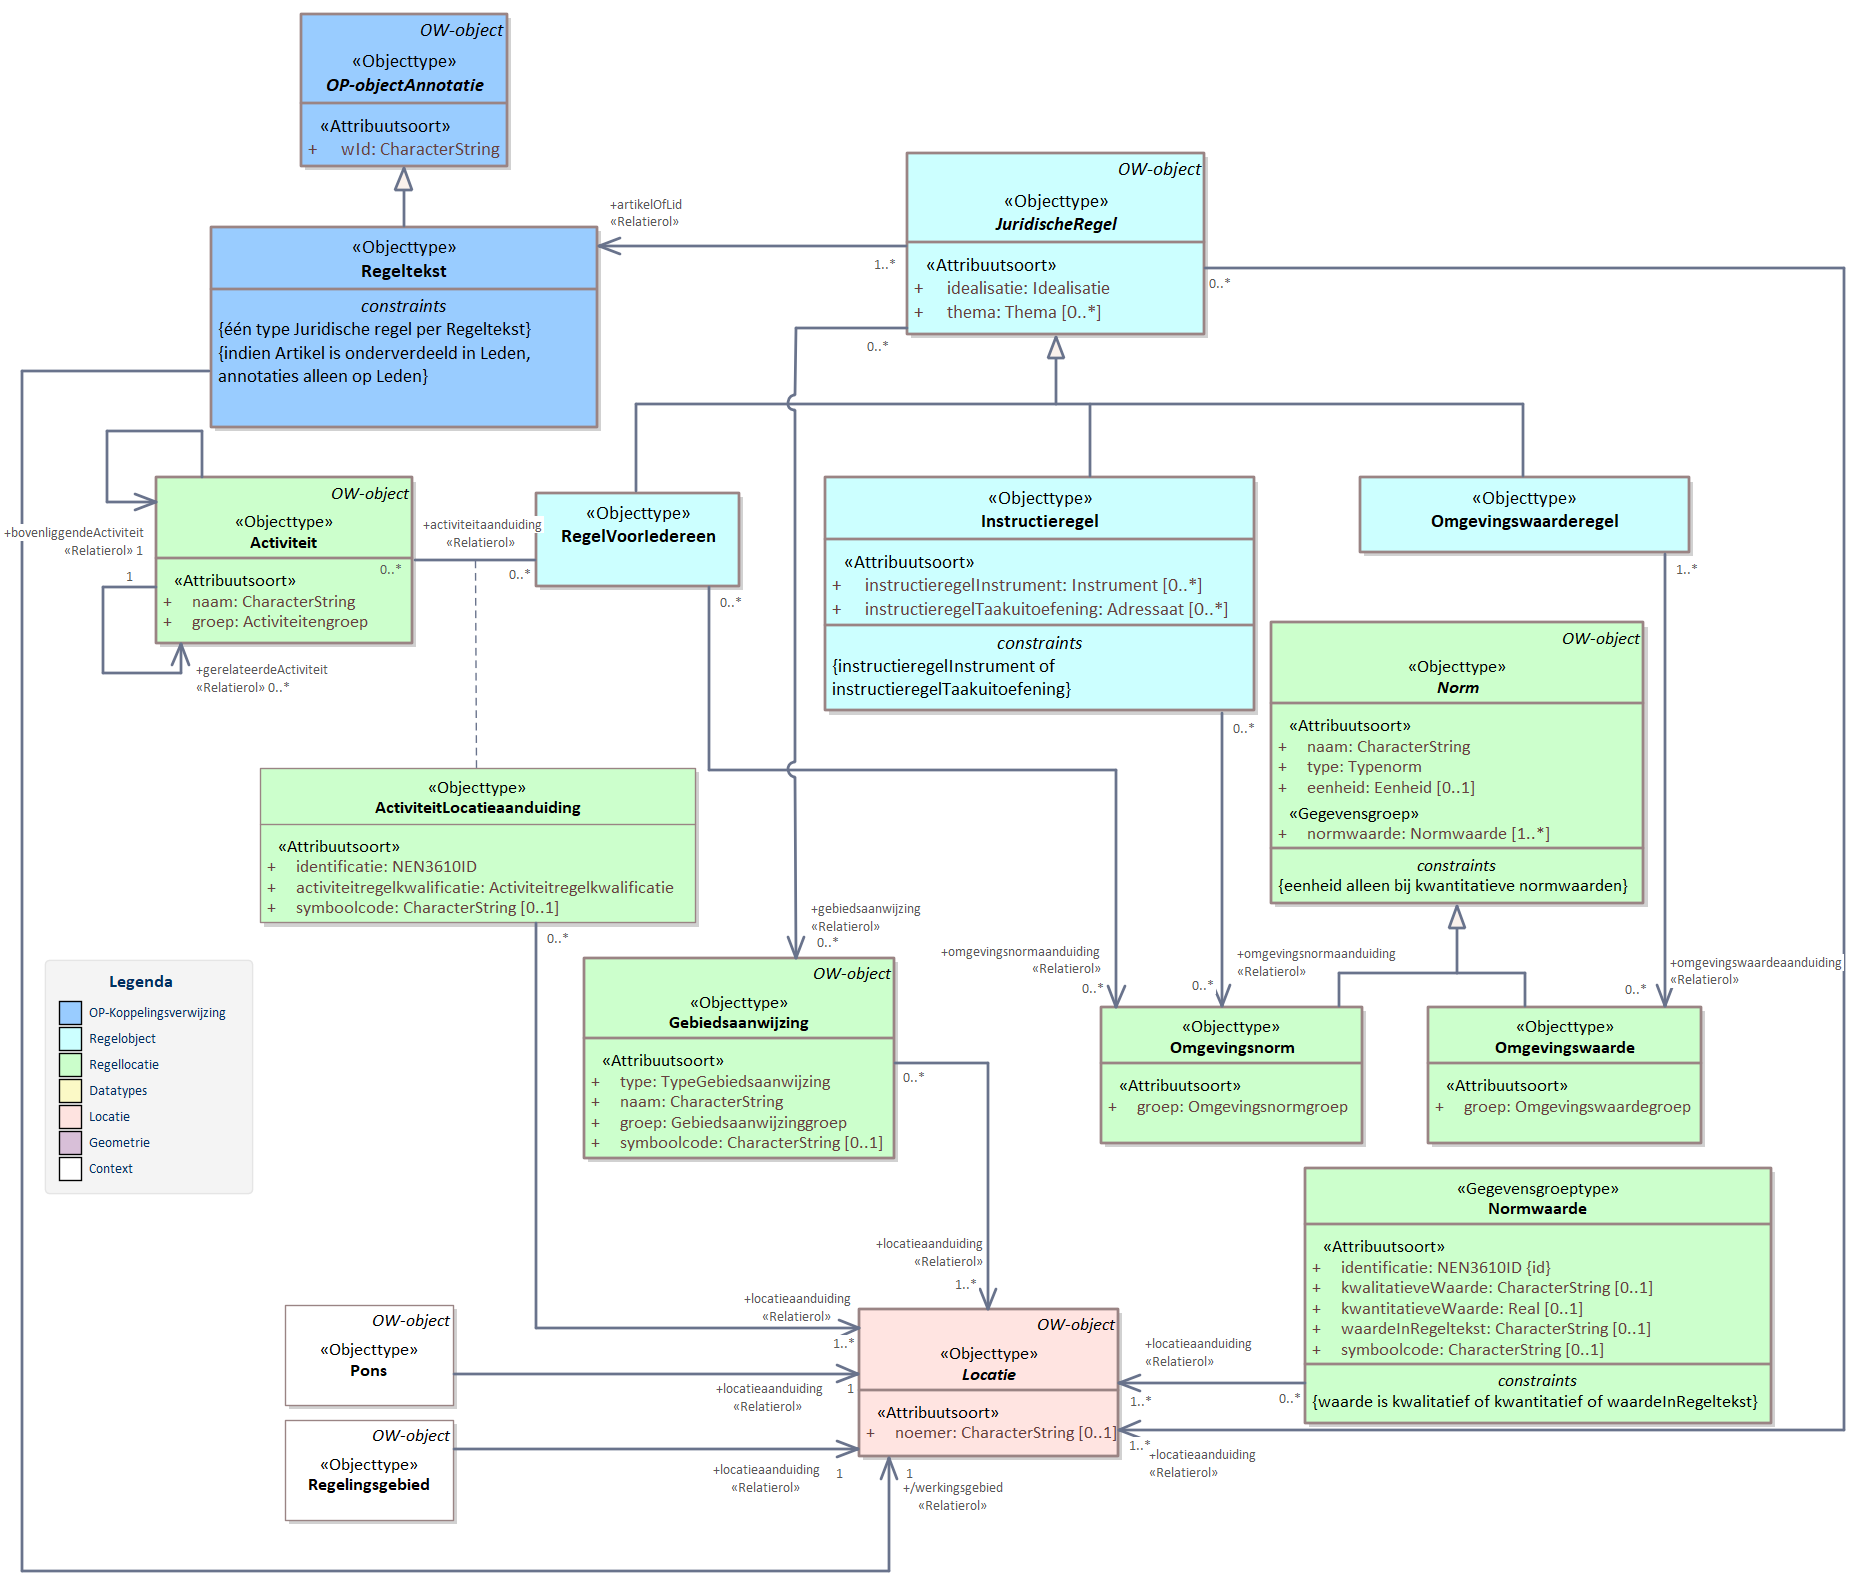
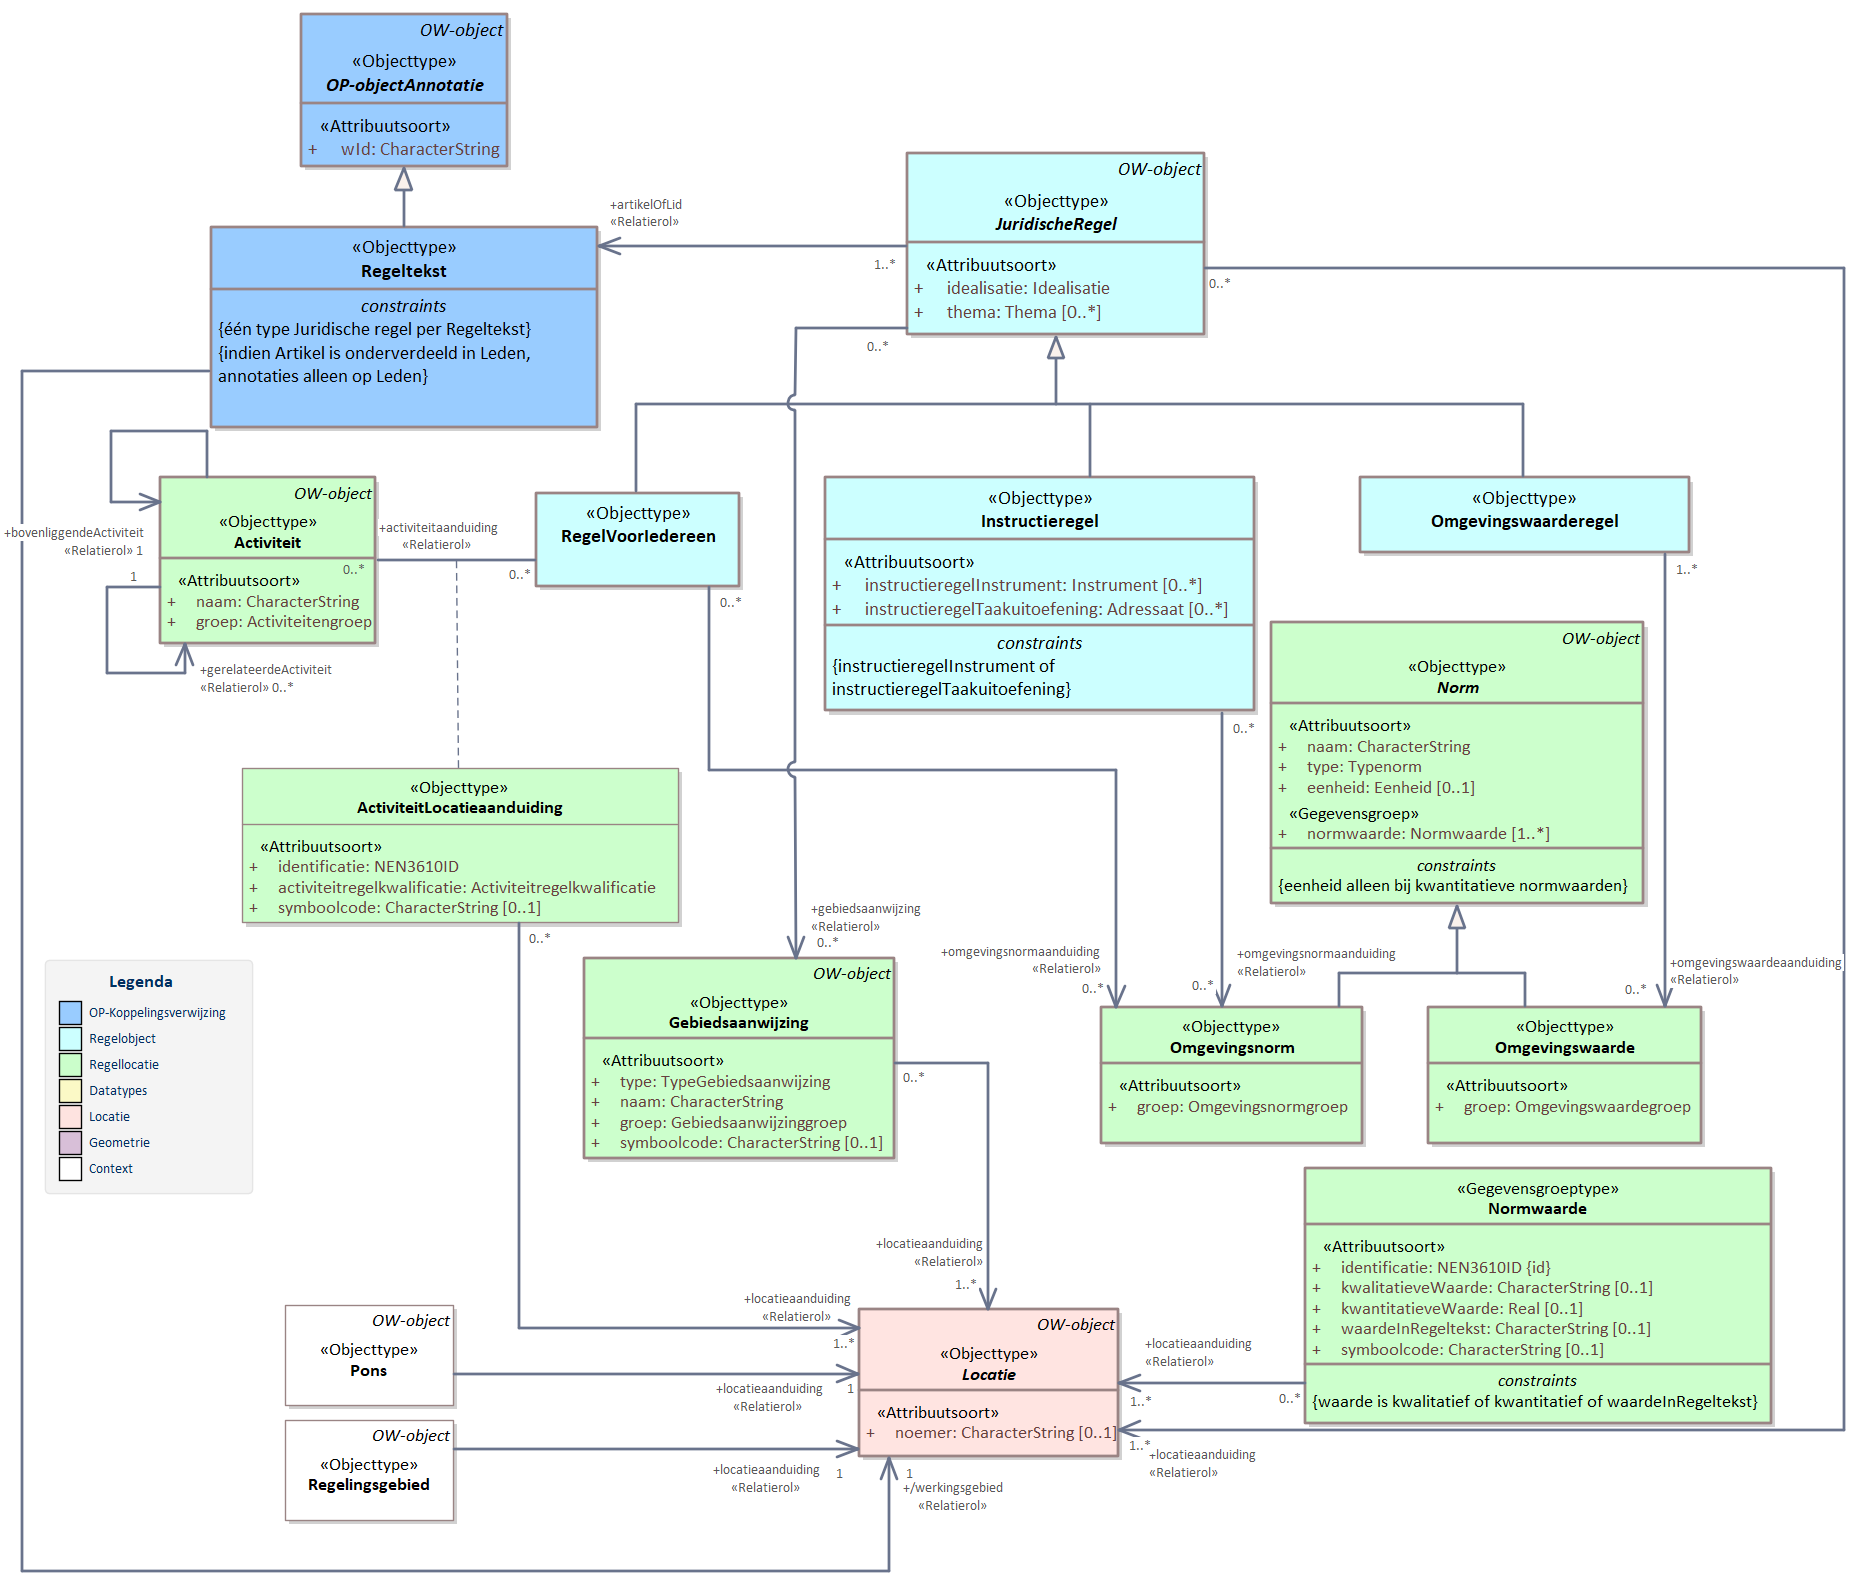
20200601_Oplevering

diff --git a/data/IMOW-cat.respec.html b/data/IMOW-cat.respec.html
@@ -58,7 +58,7 @@
                         
                         <ul>
                            
-                           <li>bij objectType zijn de volgende waardes toegestaan: Activiteit, Divisie, Gebiedsaanwijzing,
+                           <li>bij objectType zijn de volgende waardes toegestaan: Activiteit, Gebiedsaanwijzing,
                               Gebied, Gebiedengroep, Hoofdlijn, Punt, Puntengroep, Lijn, Lijnengroep, Regeltekst,
                               RegelVoorIedereen, Instructieregel, Omgevingswaarderegel, Omgevingsnorm, Omgevingswaarde,
                               Pons, Tekstdeel, Kaart, Kaartlaag, Ambtsgebied of Divisietekst. (LVBB1025)</li>
@@ -462,7 +462,7 @@
                         </td>
                      <td></td>
                      <td>
-                        <a class="external-link" href="https://docs.geostandaarden.nl/mim/vv-st-mim-20200225/#primitive-datatypes">CharacterString</a>
+                        CHARACTERSTRING
                         </td>
                      <td>0 .. 1</td>
                   </tr>
@@ -1133,9 +1133,7 @@
                         </tr>
                         <tr>
                            <th>Formaat</th>
-                           <td>
-                              <a class="external-link" href="https://docs.geostandaarden.nl/mim/vv-st-mim-20200225/#primitive-datatypes">CharacterString</a>
-                              </td>
+                           <td>CHARACTERSTRING</td>
                         </tr>
                         <tr>
                            <th>Indicatie materiële historie</th>
@@ -1931,7 +1929,7 @@
          <h4>   Artikelstructuur - overzicht</h4>
          <div class="imageinfo overview">
             <figure><img src="data/Images/EAID_F30DA025_05E0_4f4b_AAF8_D029BA870995.png" usemap="#imagemap-EAID_F30DA025_05E0_4f4b_AAF8_D029BA870995" alt="Diagram: Een Regeling die volgens de STOP artikelstructuur is gemaakt bevat een geneste structuur die bijvoorbeeld Hoofdstukken, Artikelen, Paragrafen of Subparagrafen kan bevatten. Op het diepste niveau zit de inhoudelijk informatie van de regeling. Die inhoud zit in Artikelen. Een Artikel kan worden opgesplitst in Leden. Als een Artikel Leden heeft zit de Regeltekst in de Leden. In een Artikel zonder Leden zit de Regeltekst in het Artikel zelf. In de artikelstructuur zitten de annotaties op de artikelen of leden. De annotatie is dus op het niveau van een artikel of een lid en niet binnen tekstdelen van een artikel of lid. Het Regeltekst object bevat de verwijzing naar het wId van de STOP tekst die wordt geannoteerd. Vervolgens kunnen er één of meerdere Juridische regels zijn die verbonden zijn aan de regeltekst. Een juridische regel is de in een annotatie opgenomen informatie over een regel met juridische werkingskracht. Een juridische regel heeft drie subtypen (RegelVoorIedereen, Instructieregel, Omgevingswaarderegel) die allen specifieke eigenschappen bevatten o.a. omvat in de objecten Activiteit voor het annoteren van een activiteit, Gebiedsaanwijzing om een benoemd gebied te duiden, Omgevingswaarde om een toegestane of gewenste waarde aan een Locatie toe te kennen en een Omgevingsnorm om een waarde als norm aan een Locatie te koppelen. Vervolgens hebben Normwaarde, Activiteit en Gebiedsaanwijzing een relatie met een Locatie. Het Pons object wordt gebruikt om aan te geven dat een gebied door een Regeling is ingevuld en niet meer door een WRO bestemmingsplan. Dit kan alleen gebruikt worden bij een omgevingsplan."><figcaption>Artikelstructuur</figcaption>
-            </figure><map name="imagemap-EAID_F30DA025_05E0_4f4b_AAF8_D029BA870995"><area shape="rect" alt="OP-objectAnnotatie" coords="301,14,508,167" href="#global_class_OWobject_OPobjectAnnotatie"><area shape="rect" alt="Pons" coords="285,1305,454,1406" href="#global_class_Locatie_Pons"><area shape="rect" alt="Regelingsgebied" coords="285,1420,454,1521" href="#global_class_Locatie_Regelingsgebied"><area shape="rect" alt="ActiviteitLocatieaanduiding" coords="260,768,696,923" href="#global_class_Artikelstructuur_ActiviteitLocatieaanduiding"><area shape="rect" alt="Gebiedsaanwijzing" coords="584,958,895,1159" href="#global_class_Artikelstructuur_Gebiedsaanwijzing"><area shape="rect" alt="Normwaarde" coords="1305,1168,1772,1424" href="#global_class_Artikelstructuur_Normwaarde"><area shape="rect" alt="Norm" coords="1271,622,1644,904" href="#global_class_Artikelstructuur_Norm"><area shape="rect" alt="Omgevingswaarde" coords="1428,1007,1702,1144" href="#global_class_Artikelstructuur_Omgevingswaarde"><area shape="rect" alt="Omgevingsnorm" coords="1101,1007,1363,1144" href="#global_class_Artikelstructuur_Omgevingsnorm"><area shape="rect" alt="Activiteit" coords="156,477,413,644" href="#global_class_Artikelstructuur_Activiteit"><area shape="rect" alt="Locatie" coords="859,1309,1119,1457" href="#global_class_Locatie_Locatie"><area shape="rect" alt="RegelVoorIedereen" coords="536,493,740,587" href="#global_class_Artikelstructuur_RegelVoorIedereen"><area shape="rect" alt="Instructieregel" coords="825,477,1255,711" href="#global_class_Artikelstructuur_Instructieregel"><area shape="rect" alt="Omgevingswaarderegel" coords="1360,477,1690,553" href="#global_class_Artikelstructuur_Omgevingswaarderegel"><area shape="rect" alt="JuridischeRegel" coords="907,153,1205,335" href="#global_class_Artikelstructuur_JuridischeRegel"><area shape="rect" alt="Regeltekst" coords="211,227,598,428" href="#global_class_Artikelstructuur_Regeltekst"></map><p>
+            </figure><map name="imagemap-EAID_F30DA025_05E0_4f4b_AAF8_D029BA870995"><area shape="rect" alt="OP-objectAnnotatie" coords="301,14,508,167" href="#global_class_OWobject_OPobjectAnnotatie"><area shape="rect" alt="Pons" coords="285,1305,454,1406" href="#global_class_Locatie_Pons"><area shape="rect" alt="Regelingsgebied" coords="285,1420,454,1521" href="#global_class_Locatie_Regelingsgebied"><area shape="rect" alt="ActiviteitLocatieaanduiding" coords="242,768,679,923" href="#global_class_Artikelstructuur_ActiviteitLocatieaanduiding"><area shape="rect" alt="Gebiedsaanwijzing" coords="584,958,895,1159" href="#global_class_Artikelstructuur_Gebiedsaanwijzing"><area shape="rect" alt="Normwaarde" coords="1305,1168,1772,1424" href="#global_class_Artikelstructuur_Normwaarde"><area shape="rect" alt="Norm" coords="1271,622,1644,904" href="#global_class_Artikelstructuur_Norm"><area shape="rect" alt="Omgevingswaarde" coords="1428,1007,1702,1144" href="#global_class_Artikelstructuur_Omgevingswaarde"><area shape="rect" alt="Omgevingsnorm" coords="1101,1007,1363,1144" href="#global_class_Artikelstructuur_Omgevingsnorm"><area shape="rect" alt="Activiteit" coords="160,477,376,644" href="#global_class_Artikelstructuur_Activiteit"><area shape="rect" alt="Locatie" coords="859,1309,1119,1457" href="#global_class_Locatie_Locatie"><area shape="rect" alt="RegelVoorIedereen" coords="536,493,740,587" href="#global_class_Artikelstructuur_RegelVoorIedereen"><area shape="rect" alt="Instructieregel" coords="825,477,1255,711" href="#global_class_Artikelstructuur_Instructieregel"><area shape="rect" alt="Omgevingswaarderegel" coords="1360,477,1690,553" href="#global_class_Artikelstructuur_Omgevingswaarderegel"><area shape="rect" alt="JuridischeRegel" coords="907,153,1205,335" href="#global_class_Artikelstructuur_JuridischeRegel"><area shape="rect" alt="Regeltekst" coords="211,227,598,428" href="#global_class_Artikelstructuur_Regeltekst"></map><p>
                
                <p></p>
                
@@ -3489,8 +3487,16 @@
                      <th>Regels</th>
                      <td>
                         
-                        <p>Van de drie kenmerken kwalitatieveWaarde, kwantitatieveWaarde en waardeInRegeltekst
-                           is er precies één ingevuld.</p>
+                        <ul>
+                           
+                           <li>Van de drie kenmerken kwalitatieveWaarde, kwantitatieveWaarde en waardeInRegeltekst
+                              is er precies één ingevuld.</li>
+                           
+                           <li>Alleen normwaarden waarvan per individueel punt van de locatie te bepalen zijn of
+                              ze geldig zijn zijn toegestaan. </li>
+                           
+                           <li>De locaties van een Norm mogen elkaar niet overlappen.</li>
+                           </ul>
                         </td>
                   </tr>
                   <tr>
@@ -3501,6 +3507,11 @@
                         <p>De normwaarde geeft aan wat de specifieke kwantitatieve of kwalitatieve eisen zijn,
                            inclusief de toewijzing ervan aan de specifieke locatie(s) waar de normwaarde voor
                            geldt. </p>
+                        
+                        <p>Toelichting voor de tweede regel: Een voorbeeld van een norm die niet mag is: 'het
+                           bebouwingspercentage op deze locatie is maximaal 80.'. Het probleem met deze norm
+                           is dat ingeval een multigeometrie het niet duidelijk is of de norm per geometrie geldt
+                           of voor het geheel van de geometrieën.</p>
                         
                         </td>
                   </tr>
@@ -5376,7 +5387,7 @@
       <section id="EAID_02D5F2C5_DF92_4981_80BC_F6FECA27C313">
          <h4>   VrijeTekst - overzicht</h4>
          <div class="imageinfo overview">
-            <figure><img src="data/Images/EAID_02D5F2C5_DF92_4981_80BC_F6FECA27C313.png" usemap="#imagemap-EAID_02D5F2C5_DF92_4981_80BC_F6FECA27C313" alt="Diagram: Vrijetekststructuur in STOP gebruikt twee elementtypen: Divisie en Divisietekst. Het hoogste niveau is altijd een Divisie, deze mag onderliggende Divisies bevatten waar uiteindelijk ook een Divisietekst met Inhoud in moet zitten. De Inhoud bevat alleen inhoudelijke tekst. De Divisie wordt gebruikt om de tekst te structureren in bijvoorbeeld verschillende hoofdstukken of paragrafen. Binnen IMOW is Divisietekst een subklasse van OP-objectAnnotatie. Dit betekent dat er vanuit Divisie een verwijzing is naar de wId (identificatie) van de Divisietekst in STOP. In de vrijetekststructuur zijn documenten gestructureerd in Divisie en Divisietekst element waarbij de annotaties alleen aan de Divisietekst hangen . Dit betekent dat de inhoudelijke tekstgegevens worden aangeleverd in het STOP-gedeelte en dat je vanuit OW verwijst naar deze Divisie. Vanuit OW kun je een of meerdere tekstdelen aangeven bij de Divisie. Een tekstdeel kan nog hoofdlijnen, gebiedsaanwijzingen, en/of locaties bevatten. Tevens kan er een Locatie direct gekoppeld zijn aan het tekstdeel of kan de locatie via de gebiedsaanwijzing gekoppeld zijn aan het tekstdeel."><figcaption>VrijeTekst</figcaption>
+            <figure><img src="data/Images/EAID_02D5F2C5_DF92_4981_80BC_F6FECA27C313.png" usemap="#imagemap-EAID_02D5F2C5_DF92_4981_80BC_F6FECA27C313" alt="Diagram: Vrijetekststructuur in STOP gebruikt twee elementtypen: Divisie en Divisietekst. Het hoogste niveau is altijd een Divisie, deze mag onderliggende Divisies bevatten waar uiteindelijk ook een Divisietekst met Inhoud in moet zitten. De Inhoud bevat alleen inhoudelijke tekst. De Divisie wordt gebruikt om de tekst te structureren in bijvoorbeeld verschillende hoofdstukken of paragrafen. In de vrijetekststructuur kan alleen geannoteerd worden op de Divisietekst. Dit doe je door een Tekstdeel te maken die verwijst naar die Divisietekst. Het Tekstdeel bevat dan volgende annotaties: hoofdlijnaanduiding, gebiedsaanwijzing en locatieaanduiding."><figcaption>VrijeTekst</figcaption>
             </figure><map name="imagemap-EAID_02D5F2C5_DF92_4981_80BC_F6FECA27C313"><area shape="rect" alt="OW-object" coords="706,14,1040,170" href="#global_class_OWobject_OWobject"><area shape="rect" alt="OP-objectAnnotatie" coords="353,22,549,161" href="#global_class_OWobject_OPobjectAnnotatie"><area shape="rect" alt="DivisieOfDivisietekst" coords="368,394,534,456" href="#global_class_Vrijetekst_DivisieOfDivisietekst"><area shape="rect" alt="Divisietekst" coords="356,239,547,324" href="#global_class_Vrijetekst_Divisietekst"><area shape="rect" alt="Tekstdeel" coords="312,538,570,692" href="#global_class_Vrijetekst_Tekstdeel"><area shape="rect" alt="Regelingsgebied" coords="867,603,1048,705" href="#global_class_Locatie_Regelingsgebied"><area shape="rect" alt="Hoofdlijn" coords="14,839,271,993" href="#global_class_Vrijetekst_Hoofdlijn"><area shape="rect" alt="Gebiedsaanwijzing" coords="305,839,616,1031" href="#global_class_Artikelstructuur_Gebiedsaanwijzing"><area shape="rect" alt="Locatie" coords="765,839,1036,962" href="#global_class_Locatie_Locatie"></map><p>
                
                <p>Vrijetekststructuur in STOP gebruikt twee elementtypen: Divisie en Divisietekst. Het
@@ -5385,20 +5396,9 @@
                   inhoudelijke tekst. De Divisie wordt gebruikt om de tekst te structureren in bijvoorbeeld
                   verschillende hoofdstukken of paragrafen.</p>
                
-               <p></p>
-               
-               <p>Binnen IMOW is Divisietekst  een subklasse van OP-objectAnnotatie. Dit betekent dat
-                  er vanuit Divisie een verwijzing is naar de wId (identificatie) van de Divisietekst
-                  in STOP.</p>
-               
-               <p>In de vrijetekststructuur zijn documenten gestructureerd in Divisie en Divisietekst
-                  element waarbij de annotaties alleen aan de Divisietekst hangen</p>
-               
-               <p>. Dit betekent dat de inhoudelijke tekstgegevens worden aangeleverd in het STOP-gedeelte
-                  en dat je vanuit OW verwijst naar deze Divisie. Vanuit OW kun je een of meerdere tekstdelen
-                  aangeven bij de Divisie. Een tekstdeel kan nog hoofdlijnen, gebiedsaanwijzingen, en/of
-                  locaties bevatten. Tevens kan er een Locatie direct gekoppeld zijn aan het tekstdeel
-                  of kan de locatie via de gebiedsaanwijzing gekoppeld zijn aan het tekstdeel. </p>
+               <p>In de vrijetekststructuur kan alleen geannoteerd worden op de Divisietekst. Dit doe
+                  je door een Tekstdeel te maken die verwijst naar die Divisietekst. Het Tekstdeel bevat
+                  dan volgende annotaties: hoofdlijnaanduiding, gebiedsaanwijzing en locatieaanduiding.</p>
                </p>
          </div>
       </section>
@@ -5624,6 +5624,14 @@
                         </td>
                   </tr>
                   <tr>
+                     <th>Regels</th>
+                     <td>
+                        
+                        <p>Alle Tekstdeel objecten die verwijzen naar dezelfde Divisietekst moeten dezelfde waarde
+                           hebben voor Idealisatie.</p>
+                        </td>
+                  </tr>
+                  <tr>
                      <th>Indicatie abstract object</th>
                      <td>Nee</td>
                   </tr>
@@ -5790,7 +5798,24 @@
                      <td>
                         
                         
-                        <p>Divisieobject binnen IMOW. Heeft geen functie meer.</p>
+                        <p>Annotatie op een STOP Divisie.</p>
+                        
+                        </td>
+                  </tr>
+                  <tr>
+                     <th>Regels</th>
+                     <td>
+                        
+                        <p>Instanties van de klasse Divisie komen niet voor in een OW-bestand.</p>
+                        </td>
+                  </tr>
+                  <tr>
+                     <th>Toelichting</th>
+                     <td>
+                        
+                        
+                        <p>Dit object is slechts voor backwards compatibiliteit opgenomen in het IMOW en heeft
+                           geen functie meer.</p>
                         
                         </td>
                   </tr>
